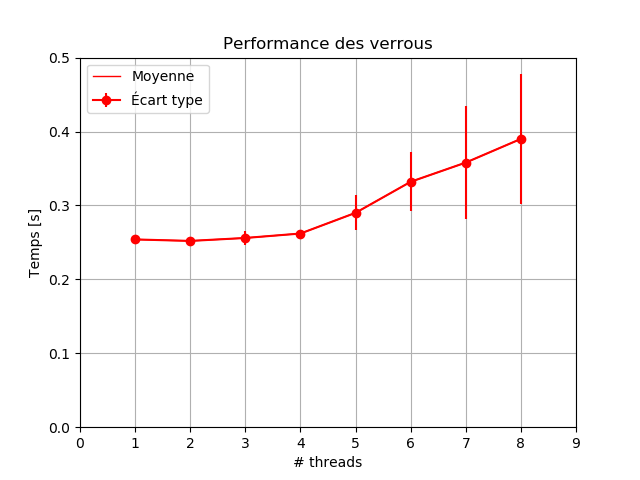
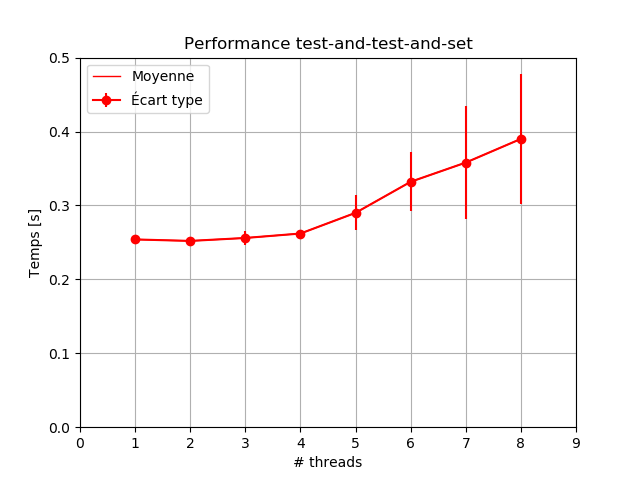
Maj graph tas/tatas

Changed region(s): [[0.2812, 0.0625, 0.75, 0.125]]

diff --git a/graph_tas.py b/graph_tas.py
@@ -34,7 +34,7 @@ def tas():
     #Légende des axes, titre du graphique, grille, légende du graphique
     plt.xlabel('# threads')
     plt.ylabel('Temps [s]')
-    plt.title("Performance des verrous")
+    plt.title("Performance test-and-set")
     plt.grid(True)
     plt.legend(['Moyenne','Écart type'], loc = 'upper left')
     
@@ -62,7 +62,7 @@ def tatas():
         
     plt.xlabel('# threads')
     plt.ylabel('Temps [s]')
-    plt.title("Performance des verrous")
+    plt.title("Performance test-and-test-and-set")
     plt.grid(True)
     plt.legend(['Moyenne','Écart type'], loc = 'upper left')
         
